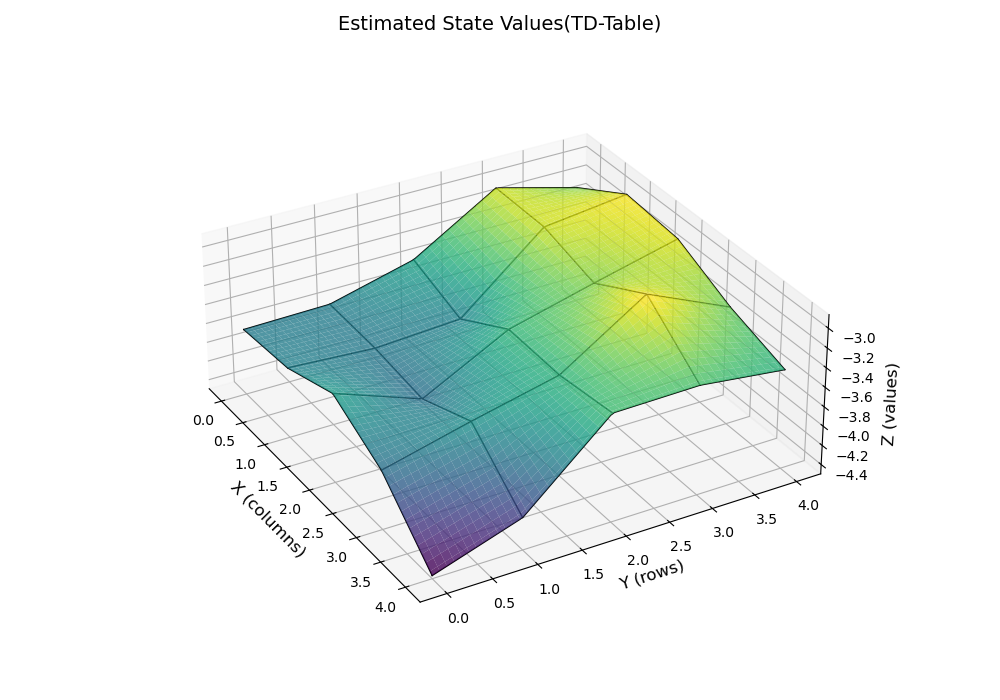
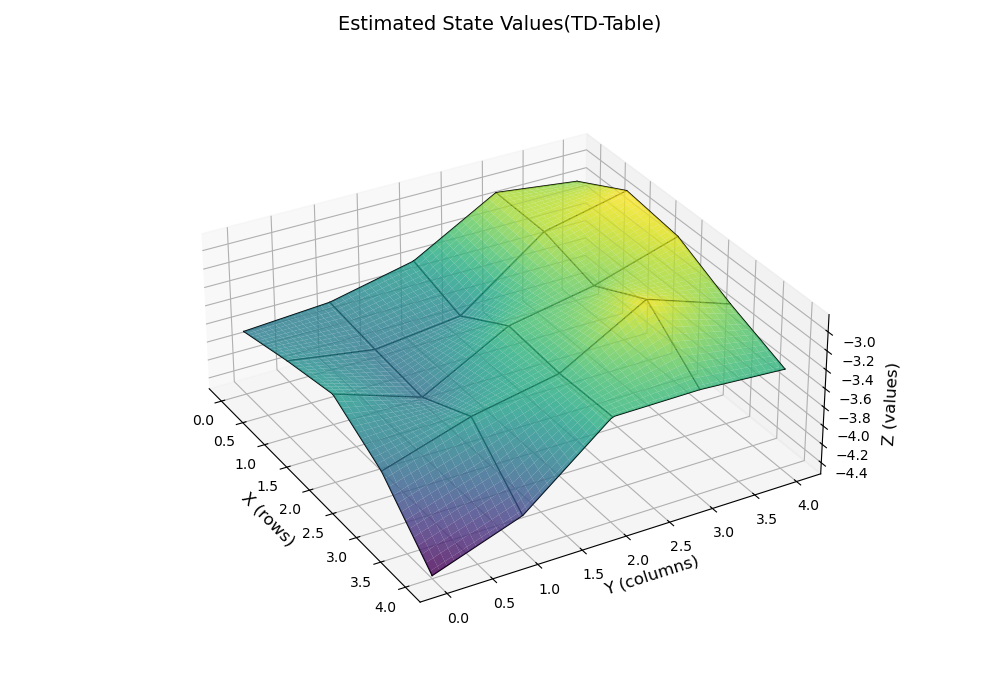
Enhance TD learning algorithms by incorporating true state values for RMSE calculation and update visualization titles for clarity

diff --git a/algorithms.py b/algorithms.py
@@ -23,6 +23,7 @@ def policy_evaluation(env:GridWorld, policy_matrix:np.ndarray, state_values:np.n
 def TD_table(
         env:GridWorld, 
         policy_matrix:np.ndarray, 
+        true_state_values:np.ndarray,
         gamma=0.9, alpha=0.005, 
         n_episodes=500, n_steps=500
     ):
@@ -30,7 +31,6 @@ def TD_table(
     weights = np.random.randn(env.num_states, 1)
     rmse_list = []
     for _ in range(n_episodes):
-        step_rmse_list = []
         for _ in range(n_steps):
             # Sample a state index uniformly
             state_idx = np.random.randint(0, env.num_states)
@@ -45,10 +45,9 @@ def TD_table(
             td_error = reward + gamma * weights[next_state_idx] - weights[state_idx]
             weights[state_idx] += alpha * td_error
 
-            step_rmse_list.append(td_error)
 
         # Calculate RMSE between estimated values and true values at the end of each episode
-        rmse = np.sqrt(np.mean(np.array(step_rmse_list)**2))
+        rmse = np.sqrt(np.mean((weights - true_state_values)**2))
         rmse_list.append(rmse)
 
     return weights, rmse_list
@@ -56,6 +55,7 @@ def TD_table(
 def TD_linear(
         env:GridWorld, 
         policy_matrix:np.ndarray, 
+        true_state_values:np.ndarray,
         gamma=0.9, alpha=0.005, 
         n_episodes=500, n_steps=500
     ):
@@ -68,7 +68,6 @@ def TD_linear(
     weights = np.random.randn(3, 1)
     rmse_list = []
     for _ in range(n_episodes):
-        step_rmse_list = []
         for _ in range(n_steps):
             # Sample a state index uniformly
             state_idx = np.random.randint(0, env.num_states)
@@ -85,10 +84,10 @@ def TD_linear(
             td_error = reward + gamma * phi_func(next_state).T @ weights - phi_func(next_state).T @ weights
             weights += alpha * td_error * phi_func(state)
 
-            step_rmse_list.append(td_error)
-
+        state_np = np.array(env.state_space)
+        state_stack = np.stack([state_np[:,0], state_np[:,1], np.ones((env.num_states))], axis=-1)
         # Calculate RMSE between estimated values and true values at the end of each episode
-        rmse = np.sqrt(np.mean(np.array(step_rmse_list)**2))
+        rmse = np.sqrt(np.mean(((state_stack @ weights).squeeze() - true_state_values)**2))
         rmse_list.append(rmse)
 
     return weights, rmse_list

diff --git a/main.py b/main.py
@@ -36,17 +36,20 @@ def PE_demo(env:GridWorld):
     state_values=np.random.uniform(0,10,(env.num_states,))
     state_values = policy_evaluation(env, policy_matrix, state_values)
     env.show_policy_and_values(state_values=state_values)
-    draw_matrix2d_smooth(state_values.reshape(env.env_size), title="3D State Values")
+    draw_matrix2d_smooth(state_values.reshape(env.env_size), title="True State Values")
+    draw_matrix2d_smooth(state_values.reshape(env.env_size), title="True State Values(k=3)", k=3)
     plt.show()
 
 def TD_demo(env:GridWorld):
-    from algorithms import TD_table, TD_linear
+    from algorithms import TD_table, TD_linear, policy_evaluation
     from utils import draw_curve, draw_prediction
     policy_matrix = np.ones((env.num_states, len(env.action_space))) / len(env.action_space)
     policy_matrix /= policy_matrix.sum(axis=1)[:, np.newaxis]
-    estimated_state_values1, rmse_list1 = TD_table(env, policy_matrix, alpha=0.005)
-    weights, rmse_list2 = TD_linear(env, policy_matrix, alpha=0.005)
-    draw_curve([rmse_list1, rmse_list2],[r"TD-table: $\alpha$=0.005", r"TD-linear: $\alpha$=0.005"])
+    state_values0 = np.random.uniform(0,10,(env.num_states,))
+    true_state_values = policy_evaluation(env, policy_matrix, state_values0)
+    estimated_state_values1, rmse_list1 = TD_table(env, policy_matrix, true_state_values, alpha=0.005)
+    weights, rmse_list2 = TD_linear(env, policy_matrix, true_state_values, alpha=0.0005)
+    draw_curve([rmse_list1, rmse_list2],[r"TD-table: $\alpha$=0.005", r"TD-linear: $\alpha$=0.0005"])
     draw_matrix2d_smooth(estimated_state_values1.reshape(env.env_size), title="Estimated State Values(TD-Table)")
     draw_prediction(weights, m=env.env_size[0], n=env.env_size[1], title="Estimated State Values(TD-Linear)")
     plt.show()
@@ -58,5 +61,5 @@ if __name__ == "__main__":
     env = GridWorld(**vars(args))
     # random_policy_demo(env, num_steps=100)
     # show_policy_and_values_demo(env)
-    # PE_demo(env)
-    TD_demo(env)
+    PE_demo(env)
+    # TD_demo(env)

diff --git a/utils.py b/utils.py
@@ -97,8 +97,8 @@ def draw_matrix2d_smooth(matrix2d:np.ndarray, title:str, k:int=1):
     ax.set_box_aspect([2.5, 2.5, 1])
 
     # Set axis labels
-    ax.set_xlabel('X (columns)', fontsize=12)
-    ax.set_ylabel('Y (rows)', fontsize=12)
+    ax.set_xlabel('X (rows)', fontsize=12)
+    ax.set_ylabel('Y (columns)', fontsize=12)
     ax.set_zlabel('Z (values)', fontsize=12)
     ax.set_title(title, fontsize=14)
 
@@ -107,7 +107,7 @@ def draw_matrix2d_smooth(matrix2d:np.ndarray, title:str, k:int=1):
     plt.tight_layout()
 
 def draw_prediction(weights:np.ndarray, m:int, n:int, title:str):
-    # Generate original row and column coordinates (x for columns, y for rows)
+    # Generate original row and column coordinates (x for rows, y for columns)
     x_orig = np.arange(m)
     y_orig = np.arange(n)
 
@@ -149,8 +149,8 @@ def draw_prediction(weights:np.ndarray, m:int, n:int, title:str):
     ax.set_box_aspect([2.5, 2.5, 1])
 
     # Set axis labels
-    ax.set_xlabel('X (columns)', fontsize=12)
-    ax.set_ylabel('Y (rows)', fontsize=12)
+    ax.set_xlabel('X (rows)', fontsize=12)
+    ax.set_ylabel('Y (columns)', fontsize=12)
     ax.set_zlabel('Z (values)', fontsize=12)
     ax.set_title(title, fontsize=14)
 
